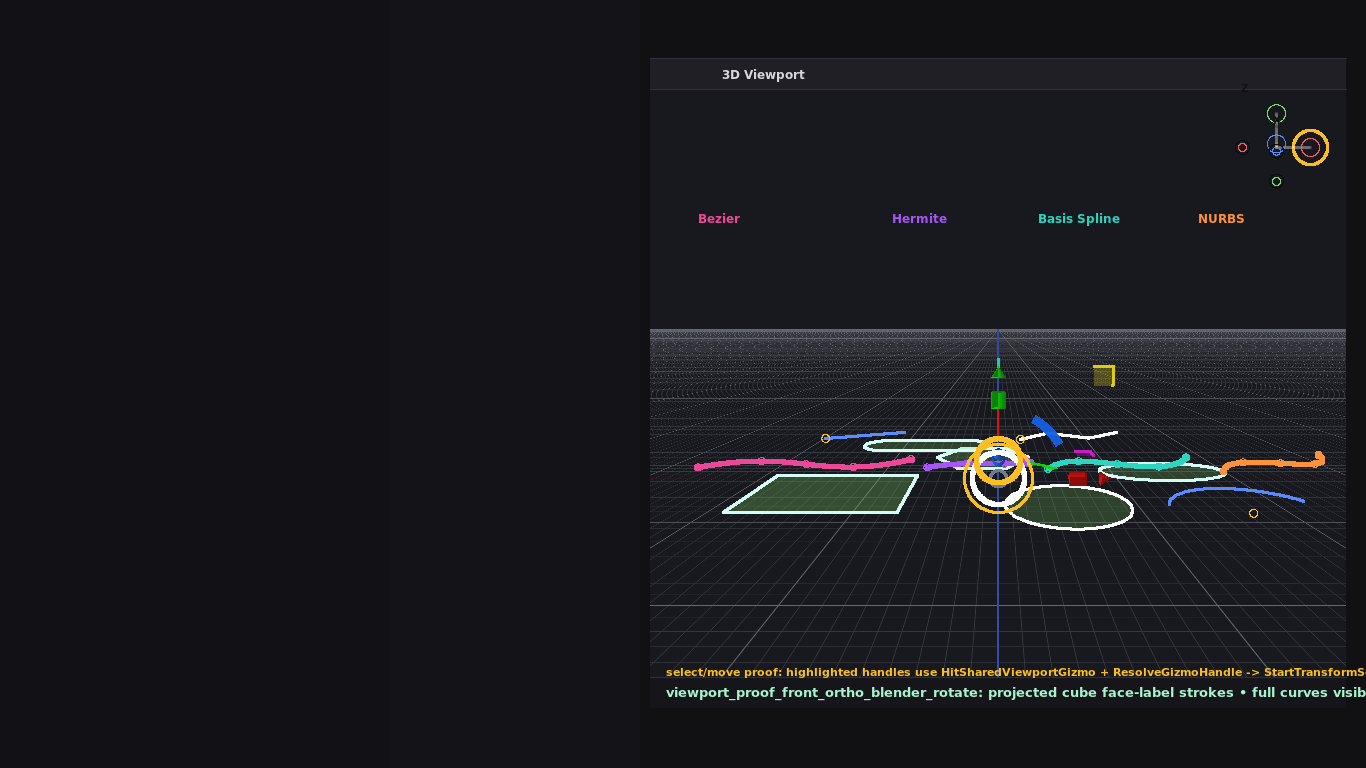
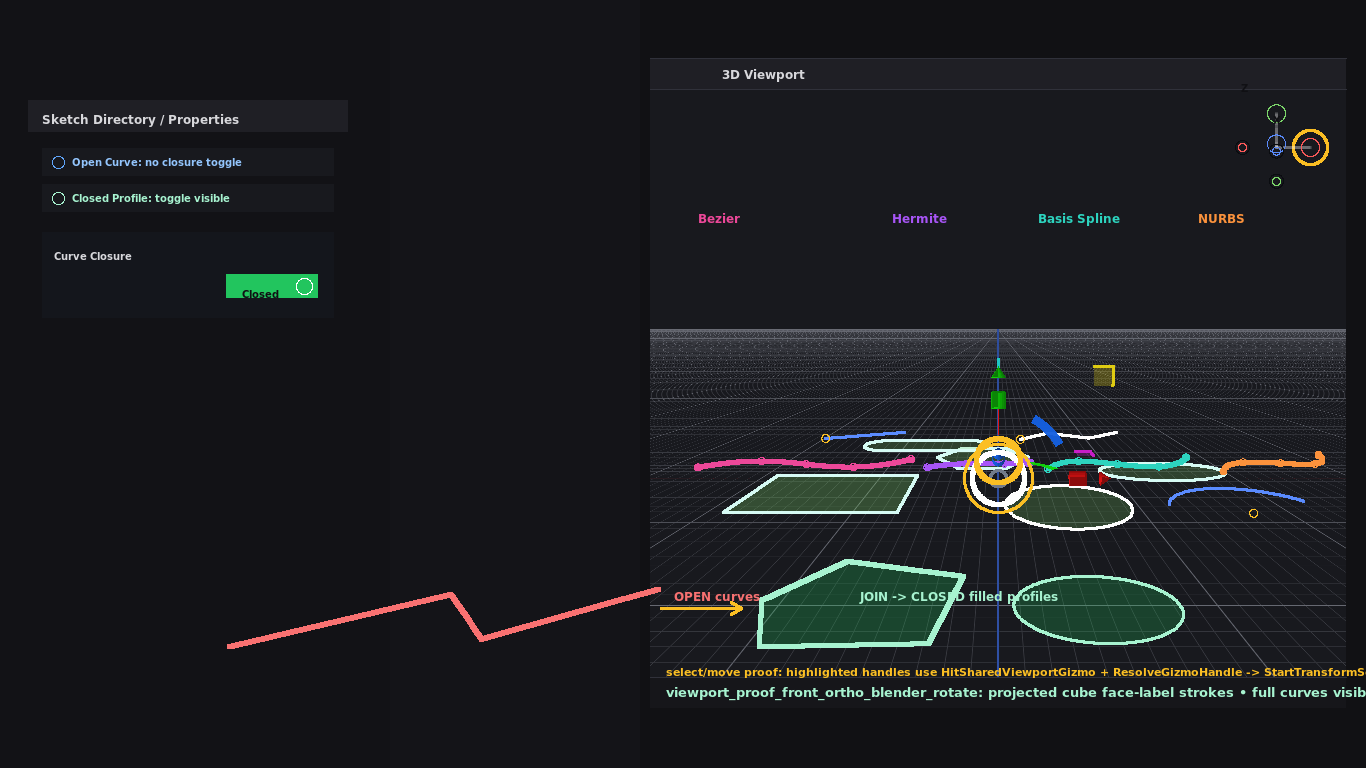
Add closed curve toggle proof

diff --git a/Tools/RenderViewportPanelProof.py b/Tools/RenderViewportPanelProof.py
@@ -284,6 +284,28 @@ def draw_cad_tools(img: Image, cam: Camera) -> None:
     if all(pl): img.polyline([p for p in pl if p], white, 0.95, 2)
     arc = [P(1.75 + math.cos(math.pi * (0.15 + i / 55 * 0.75)) * 0.55, -0.82 + math.sin(math.pi * (0.15 + i / 55 * 0.75)) * 0.55) for i in range(56)]
     if all(arc): img.polyline([p for p in arc if p], blue, 0.95, 2)
+    # Open-vs-closed curve proof in a separate area of the same scene.
+    # Open curves stay stroked only; joined closed loops become filled/extrude-ready profiles.
+    open_curve = [P(-3.05, -2.30), P(-2.60, -1.90), P(-2.10, -2.25), P(-1.65, -1.85)]
+    if all(open_curve):
+        img.polyline([p for p in open_curve if p], (248, 113, 113), 1.0, 4)
+    joined = [P(-0.95, -2.30), P(-0.28, -2.28), P(-0.18, -1.72), P(-0.82, -1.55), P(-1.10, -1.95)]
+    if all(joined):
+        jj = [p for p in joined if p]
+        img.polygon(jj, (34, 197, 94), 0.26)
+        img.polyline(jj, (167, 243, 208), 1.0, 4, True)
+    joined2 = [P(0.45 + math.cos(math.tau * i / 80) * 0.38, -2.00 + math.sin(math.tau * i / 80) * 0.28) for i in range(80)]
+    if all(joined2):
+        j2 = [p for p in joined2 if p]
+        img.polygon(j2, (34, 197, 94), 0.24)
+        img.polyline(j2, (167, 243, 208), 1.0, 3, True)
+    # Join operation arrows from open endpoints into the filled closed loop.
+    a0, a1 = P(-1.52, -2.02), P(-1.16, -2.02)
+    if a0 and a1:
+        img.line(a0, a1, (251, 191, 36), 1.0, 3)
+        img.line((a1[0]-10, a1[1]-6), a1, (251, 191, 36), 1.0, 3)
+        img.line((a1[0]-10, a1[1]+6), a1, (251, 191, 36), 1.0, 3)
+
     # points/markers
     for x, z in [(-2.0, 1.6), (0.25, 1.55), (1.75, -0.82)]:
         q = P(x, z)
@@ -531,12 +553,29 @@ def draw_interaction_highlight(img: Image, cam: Camera, gizmo: str, transform: s
     else:
         img.circle(x1 - 70 + 34, y0 + 58, 17, amber, 0.95, 3)
 
+
+def draw_parametric_property_proof(img: Image) -> None:
+    # Left inspector proof: closed-profile rows expose the Open/Closed toggle, open curves do not.
+    x0, y0, w = 28, 100, 320
+    img.rect(x0, y0, x0 + w, y0 + 245, (18, 18, 22), 0.98)
+    img.rect(x0, y0, x0 + w, y0 + 32, (31, 31, 37), 1.0)
+    for i, text_col in enumerate([(96,165,250), (167,243,208)]):
+        y = y0 + 48 + i * 36
+        img.rect(x0 + 14, y, x0 + w - 14, y + 28, (24, 25, 30), 1.0)
+        img.circle(x0 + 30, y + 14, 6, text_col, 1.0, 1)
+    # toggle card visible only for selected closed profile
+    ty = y0 + 132
+    img.rect(x0 + 14, ty, x0 + w - 14, ty + 86, (20, 22, 28), 1.0)
+    img.rect(x0 + w - 122, ty + 42, x0 + w - 30, ty + 66, (34, 197, 94), 1.0)
+    img.circle(x0 + w - 44, ty + 54, 8, (255,255,255), 1.0, 1)
+
 def render(name: str, cam: Camera, gizmo: str, transform: str) -> str:
     img = Image(W, H)
     # App frame gutters around the viewport panel.
     img.rect(0, 0, W, H, (17, 17, 20), 1)
     img.rect(0, 0, 390, H, (18, 18, 22), 1)
     img.rect(390, 0, 640, H, (20, 20, 24), 1)
+    draw_parametric_property_proof(img)
     draw_viewport_panel(img, name)
     draw_shader_grid(img, cam)
     draw_cad_tools(img, cam)
@@ -554,8 +593,15 @@ def render(name: str, cam: Camera, gizmo: str, transform: str) -> str:
         "convert", ppm,
         "-font", "DejaVu-Sans-Bold", "-pointsize", "12", "-fill", "#d8d8dc",
         "-gravity", "northwest", "-annotate", f"+{PANEL_X + 72}+{PANEL_Y + 9}", "3D Viewport",
+        "-pointsize", "12", "-fill", "#d8d8dc", "-annotate", "+42+112", "Sketch Directory / Properties",
+        "-pointsize", "10", "-fill", "#93c5fd", "-annotate", "+72+156", "Open Curve: no closure toggle",
+        "-fill", "#a7f3d0", "-annotate", "+72+192", "Closed Profile: toggle visible",
+        "-fill", "#d8d8dc", "-annotate", "+54+250", "Curve Closure",
+        "-fill", "#101014", "-annotate", "+242+288", "Closed",
         "-pointsize", "10", "-fill", "#101014", "-annotate", f"+{BODY[2] - 73}+{BODY[1] + 25}", "X" if gizmo == "blender" else "",
         "-annotate", f"+{BODY[2] - 105}+{BODY[1] - 7}", "Z" if gizmo == "blender" else "",
+        "-pointsize", "12", "-fill", "#f87171", "-annotate", f"+{BODY[0] + 24}+{BODY[1] + 500}", "OPEN curves",
+        "-fill", "#a7f3d0", "-annotate", f"+{BODY[0] + 210}+{BODY[1] + 500}", "JOIN -> CLOSED filled profiles",
         "-pointsize", "12", "-fill", "#ec4899", "-annotate", f"+{BODY[0] + 48}+{BODY[1] + 122}", "Bezier",
         "-fill", "#a855f7", "-annotate", f"+{BODY[0] + 242}+{BODY[1] + 122}", "Hermite",
         "-fill", "#2dd4bf", "-annotate", f"+{BODY[0] + 388}+{BODY[1] + 122}", "Basis Spline",

diff --git a/Engine/SlateUI/Interface/ParametricWorkspace/Source/ParametricWorkspacePanel.cpp b/Engine/SlateUI/Interface/ParametricWorkspace/Source/ParametricWorkspacePanel.cpp
@@ -472,7 +472,7 @@ void ParametricWorkspacePanel::RecordDirectoryPage(const PlaneExtent& Extent,
     Facets.RecordDeferred();
 }
 
-void ParametricWorkspacePanel::RecordPropertyPage(const PlaneExtent& Extent,
+void ParametricWorkspacePanel::RecordPropertyPage(const PlaneExtent& Extent, ParametricWorkspaceContext& Applied,
                                                   const ParametricPropertyPresentation& Property,
                                                   float ScrollOffset)
 {
@@ -508,6 +508,33 @@ void ParametricWorkspacePanel::RecordPropertyPage(const PlaneExtent& Extent,
                      Hue, Property.Secondary, Scaled.RunFine);
 
     Sweep = Hero.MaximumY + Pad;
+
+    if (Property.ClosedSemantic)
+    {
+        const PlaneExtent ToggleCard = Spanning(Extent.MinimumX + Pad, Sweep,
+                                                Extent.Width() - Pad * 2.0f, Scaled.ComponentY + Pad * 2.0f);
+        const bool Hovered = ToggleCard.Encloses(Sampled.PositionX, Sampled.PositionY);
+        if (Sampled.ContactPressed && Hovered)
+        {
+            Applied.ClosureToggleDemand = true;
+            Applied.ClosureToggleIdentity = Property.Identity;
+        }
+        Surface->Ground(ToggleCard, Hovered ? Tinted.TileHovered : Tinted.Desk, Scaled.CardRadius, CornerAll);
+        Surface->Edge(ToggleCard, Hovered ? Tinted.HairlineFirm : Tinted.Hairline, 1.0f, Scaled.CardRadius, CornerAll);
+        Surface->TextRun(ToggleCard.MinimumX + Pad,
+                         ToggleCard.MinimumY + (ToggleCard.Height() - Scaled.RunSmall) * 0.5f,
+                         Tinted.Muted, "Curve Closure", Scaled.RunSmall, 0.0f, true);
+        const float SwitchW = 92.0f;
+        const PlaneExtent Switch = Spanning(ToggleCard.MaximumX - Pad - SwitchW,
+                                            ToggleCard.MinimumY + (ToggleCard.Height() - 24.0f) * 0.5f,
+                                            SwitchW, 24.0f);
+        Surface->Ground(Switch, Hue, 12.0f, CornerAll);
+        Surface->TextRun(Switch.MinimumX + 13.0f,
+                         Switch.MinimumY + (Switch.Height() - Scaled.RunFine) * 0.5f,
+                         Covering(0x101014u), "Closed", Scaled.RunFine, 0.0f, true);
+        Surface->Medallion(Switch.MaximumX - 13.0f, Switch.MinimumY + 12.0f, 8.0f, Covering(0xFFFFFFu));
+        Sweep = ToggleCard.MaximumY + Pad;
+    }
 
     const float CardHeight = Scaled.ComponentY + Pad * 2.0f
                            + static_cast<float>(Property.FieldCount) * Scaled.StatY;
@@ -688,7 +715,7 @@ void ParametricWorkspacePanel::RecordProperties(const PlaneExtent& Extent,
                          Tinted.Faint, Prose, Scaled.RunSecondary);
     }
     else if (Applied.InspectorPage == ParametricInspectorPage::Properties)
-        RecordPropertyPage(Body, *Property, Scroll);
+        RecordPropertyPage(Body, Applied, *Property, Scroll);
     else
         RecordRevisionPage(Body, Revisions, RevisionCount, Scroll);
     Surface->Release();

diff --git a/Engine/Application/ParametricSketchHost/Source/ParametricSketchHost.cpp b/Engine/Application/ParametricSketchHost/Source/ParametricSketchHost.cpp
@@ -5457,6 +5457,21 @@ int main(int ArgumentCount, char** ArgumentValues)
                                 PropertyPresented ? &Bridge.Property : nullptr,
                                 Bridge.RevisionRows.empty() ? nullptr : Bridge.RevisionRows.data(),
                                 static_cast<std::uint32_t>(Bridge.RevisionRows.size()));
+                            if (ParametricApplied.ClosureToggleDemand)
+                            {
+                                WorkspaceRecordName Subject = { static_cast<std::uint32_t>(ParametricApplied.ClosureToggleIdentity) };
+                                if (WorkspaceRecord* Record = Records.Resolve(Subject))
+                                {
+                                    Record->ClosedSemantic = !Record->ClosedSemantic;
+                                    Revisions.Seal(std::string("Set ") + Record->Naming +
+                                                   (Record->ClosedSemantic ? " closed" : " open"),
+                                                   "Toggle Curve Closure", { Subject },
+                                                   Revisions.DeclaredCount() + 1u);
+                                    PendingSelection = Subject;
+                                }
+                                ParametricApplied.ClosureToggleDemand = false;
+                                ParametricApplied.ClosureToggleIdentity = 0u;
+                            }
                             break;
                         }
 

diff --git a/Tools/ValidateHostBuildBudgets.py b/Tools/ValidateHostBuildBudgets.py
@@ -90,6 +90,14 @@ def main() -> int:
     require("Bezier" in tools and "Hermite" in tools and "NURBS Curve" in tools,
             "Sketch Draw must expose the full primary curve set")
 
+    parametric_spec = read("Engine/SlateUI/Interface/ParametricWorkspace/Api/ParametricWorkspaceSpecification.h")
+    parametric_panel = read("Engine/SlateUI/Interface/ParametricWorkspace/Source/ParametricWorkspacePanel.cpp")
+    parametric_bridge = read("Engine/Application/Api/ParametricWorkspaceBridge.h")
+    require("ClosureToggleDemand" in parametric_spec and "Curve Closure" in parametric_panel,
+            "closed profile properties must expose an open/closed closure toggle")
+    require("Curve Closure" in parametric_bridge and "Extrude Source" in parametric_bridge,
+            "closed profile inspector data must describe closure and extrusion readiness")
+
     theme = read("Engine/SlateUI/Interface/ThemeInterchange/Source/ThemeInterchange.cpp")
     require("std::strncpy" not in theme, "ThemeInterchange must avoid MSVC strncpy warning")
 

diff --git a/Engine/Application/Api/ParametricWorkspaceBridge.h b/Engine/Application/Api/ParametricWorkspaceBridge.h
@@ -290,7 +290,12 @@ inline Outcome<bool> BridgeParametricInspector(const WorkspaceRecordStructure& R
     Append("Visible", BridgeAffirmation(Held.Visible));
     Append("Locked", BridgeAffirmation(Held.Locked));
     Append("Auto Name", BridgeAffirmation(Held.AutoNamed));
-    Append("Closed Semantic", BridgeAffirmation(Held.ClosedSemantic));
+    if (Held.ClosedSemantic)
+    {
+        Append("Curve Closure", "Closed", "toggleable");
+        Append("Extrude Source", "Filled profile", "ready");
+        Append("Open/Closed", "Closed", "click toggle");
+    }
     Append("Parent Folder", BridgeRecordDisplay(Records, Held.ParentFolder));
 
     const std::string Reference = BridgeSubjectReference(Held);

diff --git a/Engine/SlateUI/Interface/ParametricWorkspace/Api/ParametricWorkspaceSpecification.h b/Engine/SlateUI/Interface/ParametricWorkspace/Api/ParametricWorkspaceSpecification.h
@@ -206,6 +206,10 @@ struct ParametricWorkspaceContext
 
     std::uint32_t            OutlinePage = 0u; // [-] - 0 Directory, 1 Inspector
     ParametricInspectorPage  InspectorPage = ParametricInspectorPage::Properties;
+
+    // Authored by the Properties page when a selected closed profile exposes its Open/Closed toggle.
+    bool                     ClosureToggleDemand = false;
+    StableRowIdentity        ClosureToggleIdentity = 0u;
 };
 
 //------------------------------------------------------------------------------------------------------------------------

diff --git a/Engine/SlateUI/Interface/ParametricWorkspace/Api/ParametricWorkspacePanel.h b/Engine/SlateUI/Interface/ParametricWorkspace/Api/ParametricWorkspacePanel.h
@@ -71,7 +71,7 @@ private:
                           const ThemeToken& Hue, const char* Titled,
                           const char* Secondary);
     void RecordSearchField(const PlaneExtent& Extent, ParametricWorkspaceContext& Applied);
-    void RecordPropertyPage(const PlaneExtent& Extent,
+    void RecordPropertyPage(const PlaneExtent& Extent, ParametricWorkspaceContext& Applied,
                             const ParametricPropertyPresentation& Property,
                             float ScrollOffset);
     void RecordRevisionPage(const PlaneExtent& Extent,
